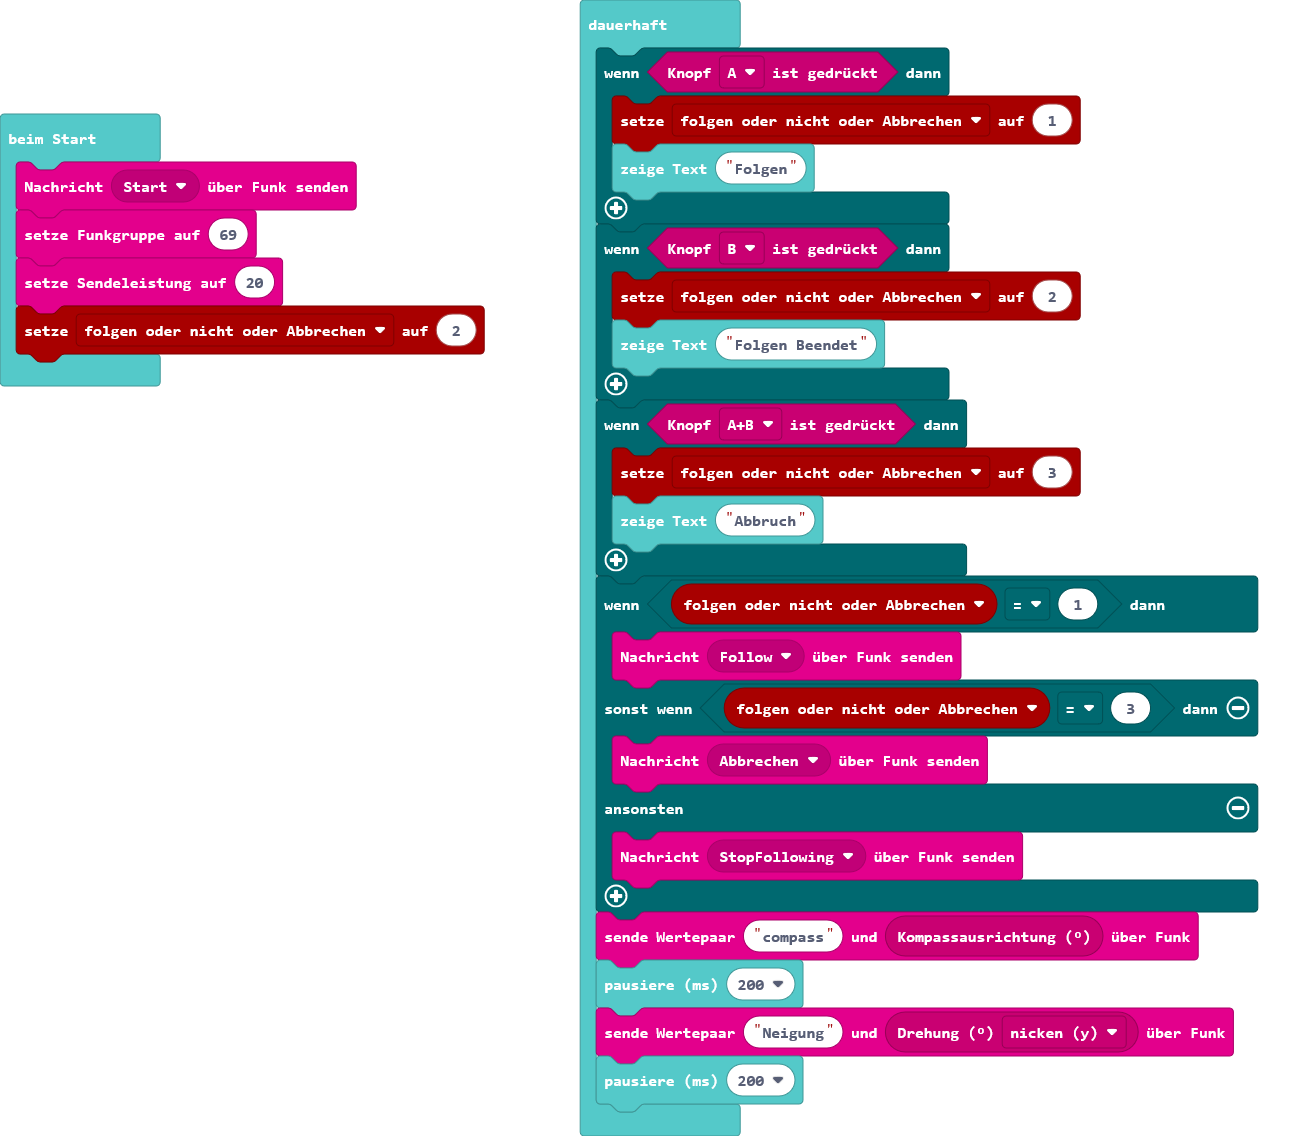
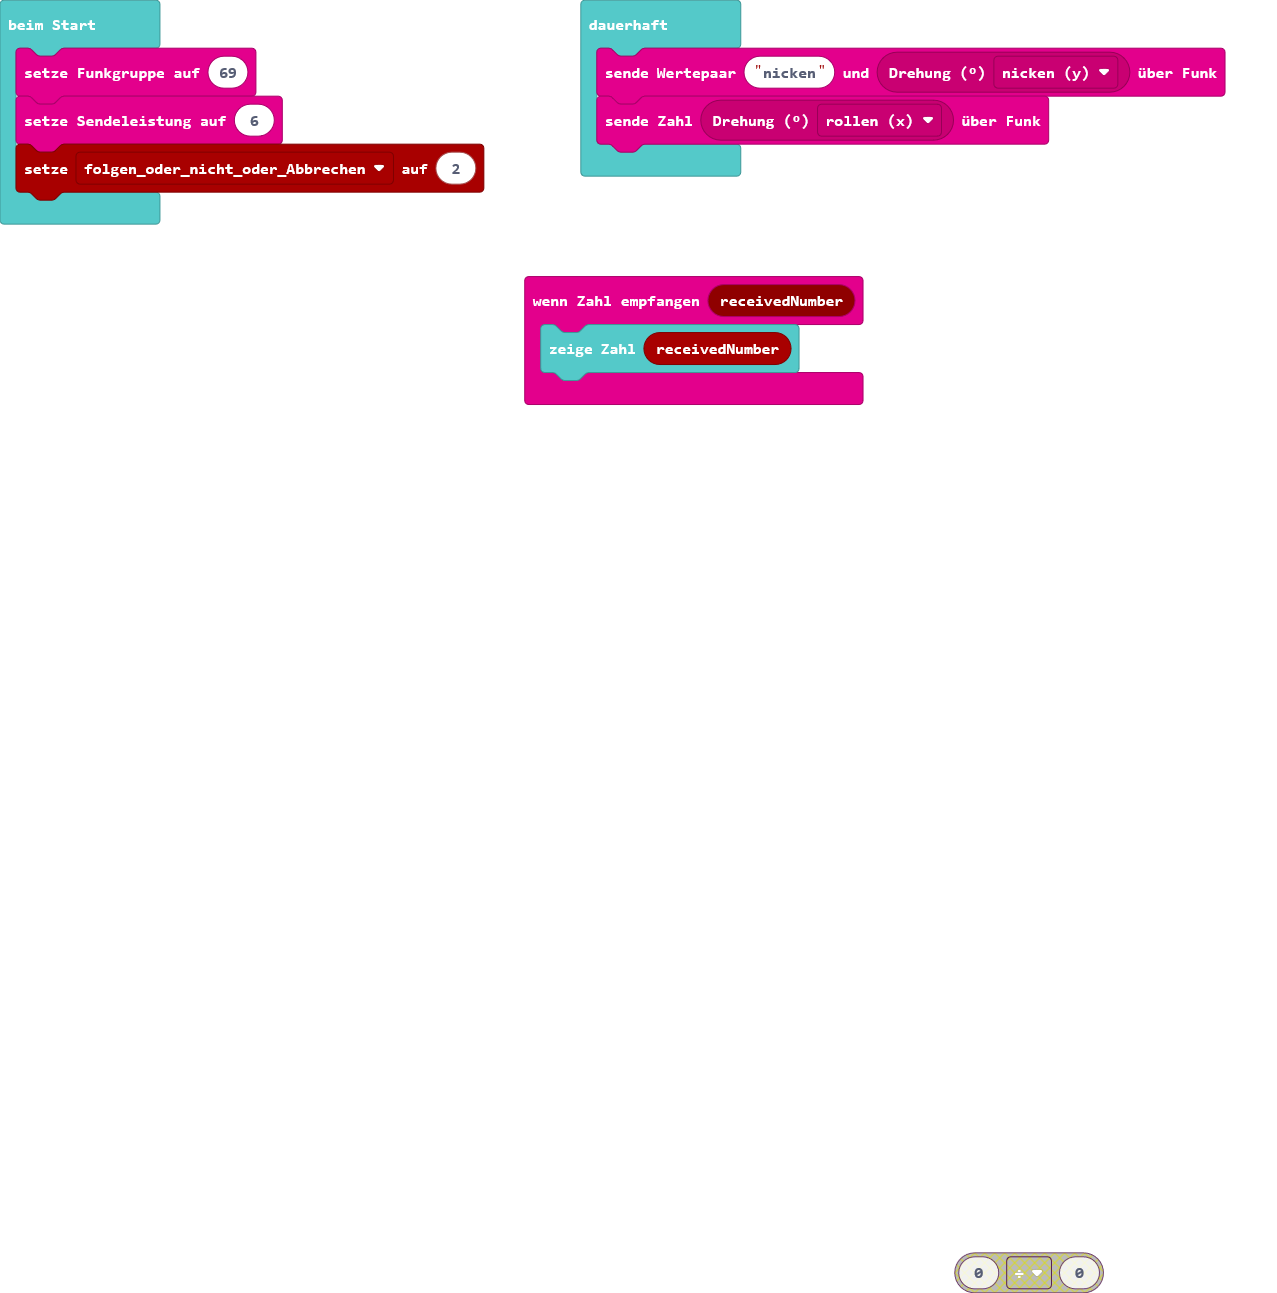
Aktualisiere pxt.json, main.blocks, main.ts, main.py

diff --git a/main.ts b/main.ts
@@ -1,37 +1,10 @@
-enum RadioMessage {
-    message1 = 49434,
-    test = 2239,
-    Follow = 44477,
-    StopFollowing = 46389,
-    Start = 56380,
-    Abbrechen = 21951
-}
-radio.sendMessage(RadioMessage.Start)
+radio.onReceivedNumber(function (receivedNumber) {
+    basic.showNumber(receivedNumber)
+})
 radio.setGroup(69)
-radio.setTransmitPower(20)
+radio.setTransmitPower(6)
 let folgen_oder_nicht_oder_Abbrechen = 2
 basic.forever(function () {
-    if (input.buttonIsPressed(Button.A)) {
-        folgen_oder_nicht_oder_Abbrechen = 1
-        basic.showString("Folgen")
-    }
-    if (input.buttonIsPressed(Button.B)) {
-        folgen_oder_nicht_oder_Abbrechen = 2
-        basic.showString("Folgen Beendet")
-    }
-    if (input.buttonIsPressed(Button.AB)) {
-        folgen_oder_nicht_oder_Abbrechen = 3
-        basic.showString("Abbruch")
-    }
-    if (folgen_oder_nicht_oder_Abbrechen == 1) {
-        radio.sendMessage(RadioMessage.Follow)
-    } else if (folgen_oder_nicht_oder_Abbrechen == 3) {
-        radio.sendMessage(RadioMessage.Abbrechen)
-    } else {
-        radio.sendMessage(RadioMessage.StopFollowing)
-    }
-    radio.sendValue("compass", input.compassHeading())
-    basic.pause(200)
-    radio.sendValue("Neigung", input.rotation(Rotation.Pitch))
-    basic.pause(200)
+    radio.sendValue("nicken", input.rotation(Rotation.Pitch))
+    radio.sendNumber(input.rotation(Rotation.Roll))
 })

diff --git a/main.py b/main.py
@@ -1,0 +1,10 @@
+radio.set_group(69)
+radio.set_transmit_power(6)
+folgen_oder_nicht_oder_Abbrechen = 2
+
+def on_forever():
+    if input.rotation(Rotation.PITCH) < 0:
+        pass
+    if input.rotation(Rotation.ROLL) > 0:
+        pass
+basic.forever(on_forever)
